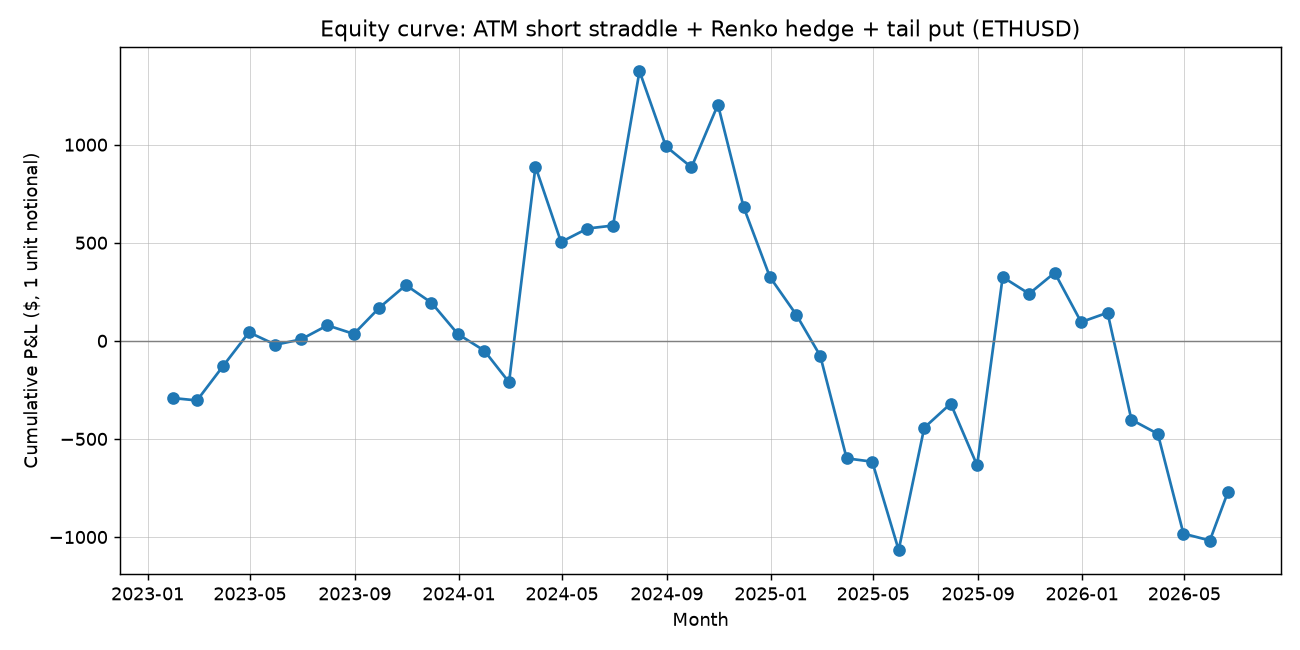
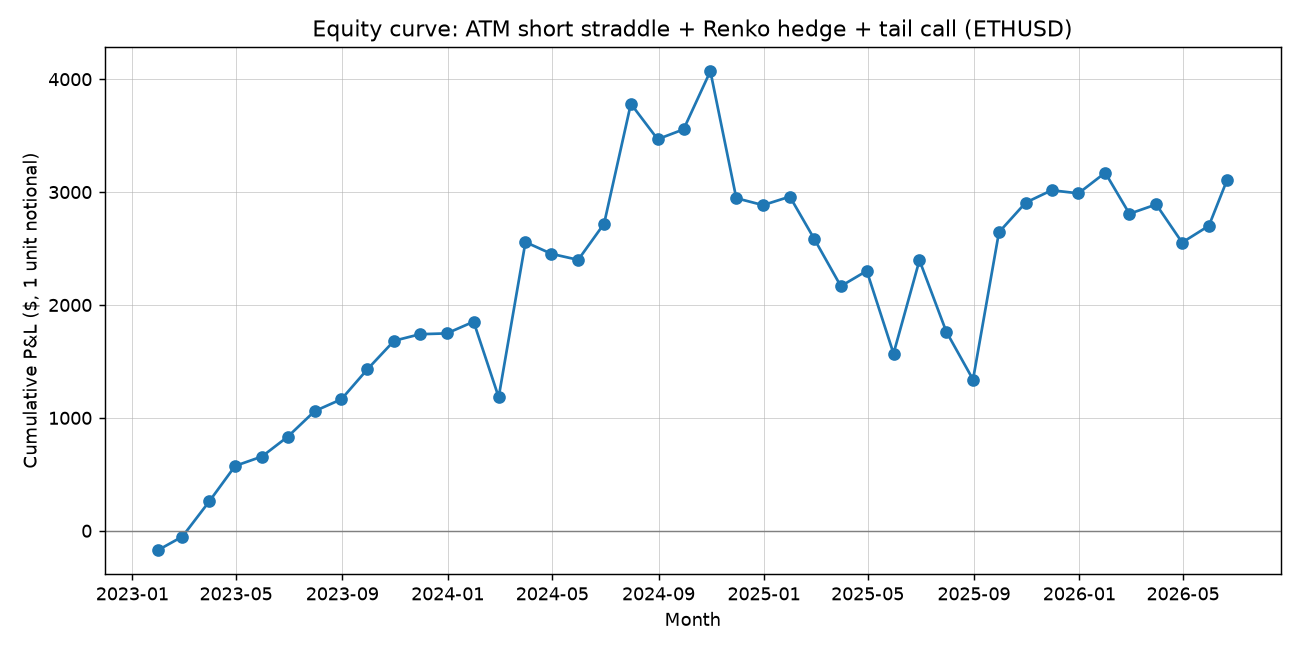
Replace tail put hedge with far-OTM tail call (15% OTM, 4% premium income)

diff --git a/backtest.py b/backtest.py
@@ -16,6 +16,8 @@ Rules
   (long <-> short), regardless of where price sits relative to the strike.
 - At month end, options are cash-settled against intrinsic value, and any
   open hedge leg is closed at the settlement price.
+- Additionally, each month sell a far OTM call struck 15% above spot for a
+  fixed premium of 4% of spot (income, cash-settled at expiry).
 """
 import datetime
 import csv
@@ -28,8 +30,8 @@ import matplotlib.pyplot as plt
 PREMIUM_RATE = 0.068      # 6.8% per side, fixed
 STRIKE_STEP = 50          # ETH strikes quoted in $50 increments (Deribit-like)
 ATR_LEN = 14
-TAIL_PUT_OTM = 0.15       # tail-hedge put struck 15% below spot
-TAIL_PUT_PREMIUM_RATE = 0.04  # fixed cost, 4% of spot
+TAIL_CALL_OTM = 0.15      # tail call struck 15% above spot
+TAIL_CALL_PREMIUM_RATE = 0.04  # fixed income, 4% of spot
 
 
 def load_prices(path):
@@ -122,8 +124,8 @@ def run_backtest(dates, closes, signal):
         premium_put = PREMIUM_RATE * spot0 + max(0.0, strike - spot0)
         premium_income = premium_call + premium_put
 
-        tail_put_strike = nearest_strike(spot0 * (1 - TAIL_PUT_OTM))
-        tail_put_cost = TAIL_PUT_PREMIUM_RATE * spot0
+        tail_call_strike = nearest_strike(spot0 * (1 + TAIL_CALL_OTM))
+        tail_call_income = TAIL_CALL_PREMIUM_RATE * spot0
 
         hedge_dir = signal[i0]            # +1 long, -1 short
         hedge_entry = spot0
@@ -147,10 +149,10 @@ def run_backtest(dates, closes, signal):
         put_payoff = -max(0.0, strike - settle)
         option_pnl = premium_income + call_payoff + put_payoff
 
-        tail_put_payoff = max(0.0, tail_put_strike - settle)
-        tail_put_pnl = tail_put_payoff - tail_put_cost
+        tail_call_payoff = -max(0.0, settle - tail_call_strike)
+        tail_call_pnl = tail_call_income + tail_call_payoff
 
-        month_pnl = option_pnl + hedge_pnl + tail_put_pnl
+        month_pnl = option_pnl + hedge_pnl + tail_call_pnl
         equity += month_pnl
 
         results.append({
@@ -165,8 +167,8 @@ def run_backtest(dates, closes, signal):
             "hedge_pnl": hedge_pnl,
             "n_switches": len(switches),
             "switches": switches,
-            "tail_put_strike": tail_put_strike,
-            "tail_put_pnl": tail_put_pnl,
+            "tail_call_strike": tail_call_strike,
+            "tail_call_pnl": tail_call_pnl,
             "month_pnl": month_pnl,
             "equity": equity,
         })
@@ -177,11 +179,11 @@ def run_backtest(dates, closes, signal):
 def print_report(results):
     print(f"{'Month':8} {'Spot0':>9} {'Strike':>7} {'Settle':>9} "
           f"{'Premium':>9} {'OptPnL':>9} {'HedgePnL':>9} {'Switch':>6} "
-          f"{'TailPut':>9} {'MonthPnL':>10} {'Equity':>10}")
+          f"{'TailCall':>9} {'MonthPnL':>10} {'Equity':>10}")
     for r in results:
         print(f"{r['month']:8} {r['spot0']:9.1f} {r['strike']:7.0f} {r['settle']:9.1f} "
               f"{r['premium_income']:9.1f} {r['option_pnl']:9.1f} {r['hedge_pnl']:9.1f} "
-              f"{r['n_switches']:6d} {r['tail_put_pnl']:9.1f} {r['month_pnl']:10.1f} {r['equity']:10.1f}")
+              f"{r['n_switches']:6d} {r['tail_call_pnl']:9.1f} {r['month_pnl']:10.1f} {r['equity']:10.1f}")
 
     total_pnl = results[-1]["equity"] if results else 0.0
     n = len(results)
@@ -202,7 +204,7 @@ def plot_equity(results, path):
     plt.figure(figsize=(10, 5))
     plt.plot(xs, ys, marker="o")
     plt.axhline(0, color="grey", linewidth=0.8)
-    plt.title("Equity curve: ATM short straddle + Renko hedge + tail put (ETHUSD)")
+    plt.title("Equity curve: ATM short straddle + Renko hedge + tail call (ETHUSD)")
     plt.xlabel("Month")
     plt.ylabel("Cumulative P&L ($, 1 unit notional)")
     plt.grid(True, linewidth=0.3)
@@ -221,12 +223,12 @@ def main():
         w = csv.writer(f)
         w.writerow(["month", "init_date", "expiry_date", "spot0", "strike", "settle",
                     "premium_income", "option_pnl", "hedge_pnl", "n_switches",
-                    "tail_put_strike", "tail_put_pnl", "month_pnl", "equity"])
+                    "tail_call_strike", "tail_call_pnl", "month_pnl", "equity"])
         for r in results:
             w.writerow([r["month"], r["init_date"], r["expiry_date"], r["spot0"],
                         r["strike"], r["settle"], r["premium_income"], r["option_pnl"],
-                        r["hedge_pnl"], r["n_switches"], r["tail_put_strike"],
-                        r["tail_put_pnl"], r["month_pnl"], r["equity"]])
+                        r["hedge_pnl"], r["n_switches"], r["tail_call_strike"],
+                        r["tail_call_pnl"], r["month_pnl"], r["equity"]])
 
     plot_equity(results, "equity_curve.png")
 

diff --git a/README.md b/README.md
@@ -14,6 +14,8 @@ ETH future whose side (long/short) is driven by a daily Renko signal.
   (long ↔ short), regardless of where price sits relative to the strike.
 - At expiry, options are cash-settled against intrinsic value and any open
   hedge leg is closed at the settlement price.
+- Additionally, each month sells a far OTM call struck 15% above spot for a
+  fixed premium of 4% of spot (extra income, capped upside).
 - The Renko signal uses an ATR(14)-based brick size, recomputed from
   close-to-close ranges (true OHLC ATR isn't available from the daily
   close-only price feed used here).
@@ -35,8 +37,8 @@ Outputs `results.csv` (per-month P&L breakdown) and `equity_curve.png`
 
 ## Result snapshot (42 months, 1 unit ETH notional)
 
-- 24/42 winning months
-- Total P&L: ~$2,435 (~3.83% of spot per month on average)
+- 27/42 winning months
+- Total P&L: ~$3,107 (~4.88% of spot per month on average)
 
 This is a simplified, fixed-premium model (not real options market prices)
 intended to illustrate the hedge-switching mechanics, not as a production
